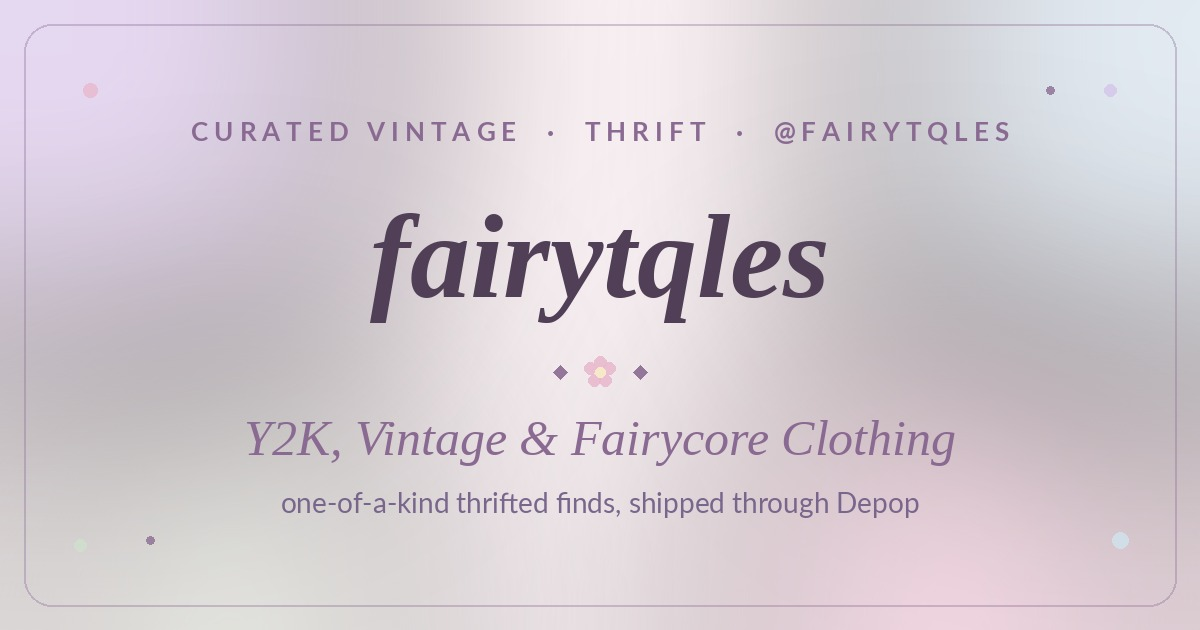
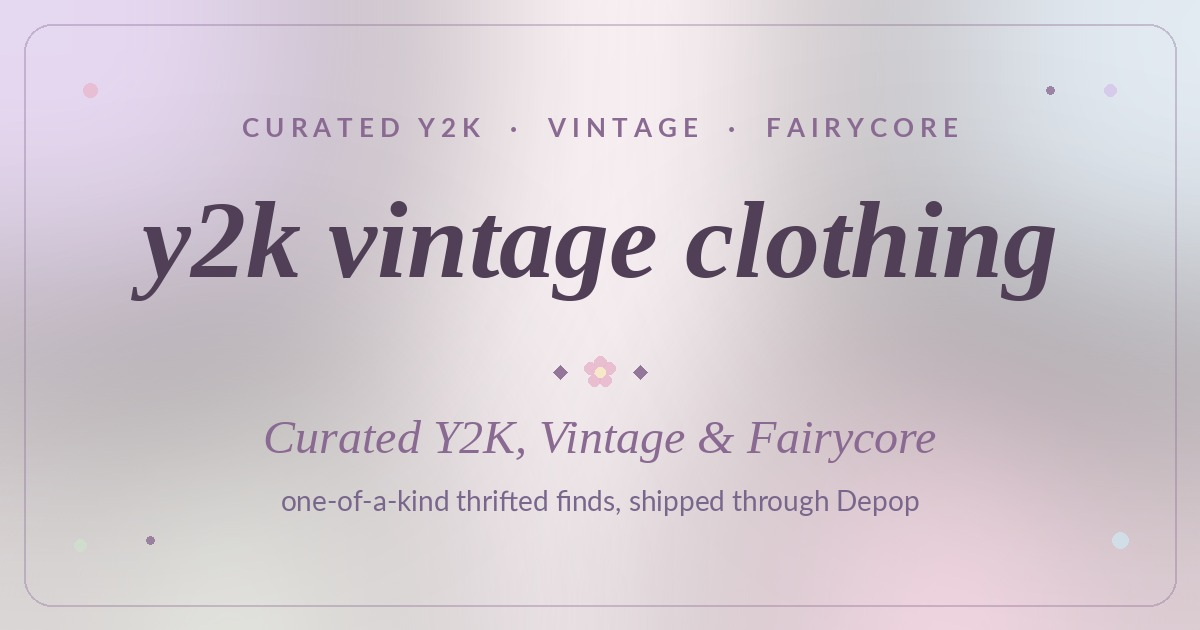
Add files via upload

diff --git a/index.html b/index.html
@@ -6,23 +6,23 @@
 <meta name="google-site-verification" content="HPBxC9Fs_5nMhaDtrxnxJggaZpxIydLMu5C33OSO2TQ" />
 
 <!-- Primary SEO -->
-<title>fairytqles — Y2K, Vintage &amp; Fairycore Clothing | Curated Thrift Shop</title>
-<meta name="description" content="Curated Y2K, vintage & fairycore clothing. One-of-a-kind thrifted pieces — hand-picked, honestly described, and shipped through Depop. Shop the collection.">
-<link rel="canonical" href="https://www.fairytqles-clothing.com/">
+<title>Y2K Vintage Clothing — Curated Y2K, Vintage &amp; Fairycore Thrift Shop</title>
+<meta name="description" content="Y2K Vintage Clothing — a curated shop of one-of-a-kind Y2K, vintage & fairycore pieces. Hand-picked, honestly described, and shipped through Depop. Shop the collection.">
+<link rel="canonical" href="https://www.y2kvintageclothing.com/">
 
 <!-- Open Graph (Facebook, Pinterest, iMessage previews) -->
 <meta property="og:type" content="website">
-<meta property="og:title" content="fairytqles — Curated Y2K &amp; Vintage Clothing">
+<meta property="og:title" content="Y2K Vintage Clothing — Curated Y2K &amp; Vintage">
 <meta property="og:description" content="One-of-a-kind Y2K, vintage & fairycore finds. Hand-picked thrift, shipped through Depop.">
-<meta property="og:url" content="https://www.fairytqles-clothing.com/">
-<meta property="og:image" content="https://www.fairytqles-clothing.com/preview.jpg">
-<meta property="og:site_name" content="fairytqles">
+<meta property="og:url" content="https://www.y2kvintageclothing.com/">
+<meta property="og:image" content="https://www.y2kvintageclothing.com/preview.jpg">
+<meta property="og:site_name" content="Y2K Vintage Clothing">
 
 <!-- Twitter/X card -->
 <meta name="twitter:card" content="summary_large_image">
-<meta name="twitter:title" content="fairytqles — Curated Y2K &amp; Vintage Clothing">
+<meta name="twitter:title" content="Y2K Vintage Clothing — Curated Y2K &amp; Vintage">
 <meta name="twitter:description" content="One-of-a-kind Y2K, vintage & fairycore finds. Hand-picked thrift, shipped through Depop.">
-<meta name="twitter:image" content="https://www.fairytqles-clothing.com/preview.jpg">
+<meta name="twitter:image" content="https://www.y2kvintageclothing.com/preview.jpg">
 <link rel="preconnect" href="https://fonts.googleapis.com">
 <link rel="preconnect" href="https://fonts.gstatic.com" crossorigin>
 <link href="https://fonts.googleapis.com/css2?family=Cormorant+Garamond:ital,wght@0,400;0,500;1,400;1,500&family=Quicksand:wght@400;500;600&display=swap" rel="stylesheet">
@@ -72,10 +72,11 @@
   nav .wordmark {
     font-family: 'Cormorant Garamond', Georgia, serif;
     font-style: italic;
-    font-size: 26px;
+    font-size: 24px;
     font-weight: 500;
     text-decoration: none;
     color: var(--deep);
+    white-space: nowrap;
   }
   nav .links { display: flex; gap: 24px; align-items: center; }
   nav .links a.plain {
@@ -365,7 +366,7 @@
 <body>
 
 <nav>
-  <a class="wordmark" href="#">fairytqles</a>
+  <a class="wordmark" href="#">y2k vintage clothing</a>
   <div class="links">
     <a class="plain" href="#collection">collection</a>
     <a class="plain" href="#about">about</a>
@@ -379,9 +380,9 @@
   <span class="float f2">🌷</span>
   <span class="float f3">✧</span>
   <span class="float f4">🍄</span>
-  <p class="eyebrow">curated vintage &amp; thrift · @fairytqles</p>
+  <p class="eyebrow">curated y2k &amp; vintage · @fairytqles</p>
   <h1>Once upon a time, <em>someone loved this</em>.</h1>
-  <p class="sub">Curated Y2K, vintage &amp; fairycore clothing — one-of-a-kind thrifted finds, hand-picked and photographed with care. Every piece listed &amp; shipped through Depop.</p>
+  <p class="sub">Y2K Vintage Clothing — curated Y2K, vintage &amp; fairycore pieces, one-of-a-kind and hand-picked with care. Every piece listed &amp; shipped through Depop.</p>
   <a class="btn cta" href="https://www.depop.com/fairytqles" target="_blank" rel="noopener">browse the shop ✿</a>
 </header>
 
@@ -492,8 +493,8 @@
     <h3>Slow fashion, <em>one treasure at a time</em>.</h3>
   </div>
   <div>
-    <p>fairytqles is a small curated vintage shop. Every piece is thrifted by hand, cleaned, measured, and photographed before it's listed — so what you see is exactly what arrives.</p>
-    <p>Because everything is secondhand, each item is one of one. If something speaks to you, it won't be restocked. All purchases, questions, and offers happen through Depop.</p>
+    <p>Y2K Vintage Clothing is a small curated shop for one-of-a-kind Y2K, vintage &amp; fairycore pieces. Every item is thrifted by hand, cleaned, measured, and photographed before it's listed — so what you see is exactly what arrives.</p>
+    <p>Because everything is secondhand, each piece is one of one. If something speaks to you, it won't be restocked. All purchases, questions, and offers happen through Depop, @fairytqles.</p>
   </div>
 </section>
 
@@ -519,7 +520,7 @@
   <h5>Find something <em>worth keeping</em>.</h5>
   <a class="btn cta" href="https://www.depop.com/fairytqles" target="_blank" rel="noopener">@fairytqles on depop ✿</a>
   <div class="fine">
-    <span>© 2026 fairytqles</span>
+    <span>© 2026 Y2K Vintage Clothing</span>
     <a href="https://www.depop.com/fairytqles" target="_blank" rel="noopener">depop.com/fairytqles</a>
   </div>
 </footer>
@@ -529,9 +530,9 @@
 {
   "@context": "https://schema.org",
   "@type": "Store",
-  "name": "fairytqles",
+  "name": "Y2K Vintage Clothing",
   "description": "Curated Y2K, vintage & fairycore clothing. One-of-a-kind thrifted pieces, shipped through Depop.",
-  "url": "https://www.fairytqles-clothing.com/",
+  "url": "https://www.y2kvintageclothing.com/",
   "sameAs": ["https://www.depop.com/fairytqles"]
 }
 </script>

diff --git a/journal.html b/journal.html
@@ -4,16 +4,16 @@
 <meta charset="UTF-8">
 <meta name="viewport" content="width=device-width, initial-scale=1.0">
 
-<title>the journal — Y2K styling & vintage tips | fairytqles</title>
-<meta name="description" content="Styling ideas, thrifting notes, and Y2K outfit inspiration from fairytqles — a curated vintage & fairycore shop. Read the journal.">
-<link rel="canonical" href="https://www.fairytqles-clothing.com/journal.html">
+<title>the journal — Y2K styling & vintage tips | Y2K Vintage Clothing</title>
+<meta name="description" content="Styling ideas, thrifting notes, and Y2K outfit inspiration from Y2K Vintage Clothing — a curated vintage & fairycore shop. Read the journal.">
+<link rel="canonical" href="https://www.y2kvintageclothing.com/journal.html">
 
 <meta property="og:type" content="website">
-<meta property="og:title" content="the journal — Y2K styling & vintage tips | fairytqles">
-<meta property="og:description" content="Styling ideas and Y2K outfit inspiration from fairytqles, a curated vintage & fairycore shop.">
-<meta property="og:url" content="https://www.fairytqles-clothing.com/journal.html">
-<meta property="og:image" content="https://www.fairytqles-clothing.com/preview.jpg">
-<meta property="og:site_name" content="fairytqles">
+<meta property="og:title" content="the journal — Y2K styling & vintage tips | Y2K Vintage Clothing">
+<meta property="og:description" content="Styling ideas and Y2K outfit inspiration from Y2K Vintage Clothing, a curated vintage & fairycore shop.">
+<meta property="og:url" content="https://www.y2kvintageclothing.com/journal.html">
+<meta property="og:image" content="https://www.y2kvintageclothing.com/preview.jpg">
+<meta property="og:site_name" content="Y2K Vintage Clothing">
 
 <link rel="preconnect" href="https://fonts.googleapis.com">
 <link rel="preconnect" href="https://fonts.gstatic.com" crossorigin>
@@ -45,7 +45,7 @@
   }
   nav .wordmark {
     font-family: 'Cormorant Garamond', Georgia, serif; font-style: italic;
-    font-size: 26px; font-weight: 500; text-decoration: none; color: var(--deep);
+    font-size: 24px; font-weight: 500; text-decoration: none; color: var(--deep); white-space: nowrap;
   }
   nav .links { display: flex; gap: 24px; align-items: center; }
   nav .links a.plain {
@@ -125,7 +125,7 @@
 <body>
 
 <nav>
-  <a class="wordmark" href="index.html">fairytqles</a>
+  <a class="wordmark" href="index.html">y2k vintage clothing</a>
   <div class="links">
     <a class="plain" href="index.html#collection">collection</a>
     <a class="plain" href="journal.html">journal</a>
@@ -158,7 +158,7 @@
   <h5>Find something <em>worth keeping</em>.</h5>
   <a class="btn cta" href="https://www.depop.com/fairytqles" target="_blank" rel="noopener">@fairytqles on depop ✿</a>
   <div class="fine">
-    <span>© 2026 fairytqles</span>
+    <span>© 2026 Y2K Vintage Clothing</span>
     <a href="https://www.depop.com/fairytqles" target="_blank" rel="noopener">depop.com/fairytqles</a>
   </div>
 </footer>

diff --git a/y2k-aesthetic-thrifted-guide.html b/y2k-aesthetic-thrifted-guide.html
@@ -4,16 +4,16 @@
 <meta charset="UTF-8">
 <meta name="viewport" content="width=device-width, initial-scale=1.0">
 
-<title>The Y2K Aesthetic, Explained: Building the Look from Thrifted Finds | fairytqles</title>
-<meta name="description" content="What makes an outfit Y2K, the key vintage pieces to thrift, and how to build the look so it feels like you. A styling guide from fairytqles.">
-<link rel="canonical" href="https://www.fairytqles-clothing.com/y2k-aesthetic-thrifted-guide.html">
+<title>The Y2K Aesthetic, Explained: Building the Look from Thrifted Finds | Y2K Vintage Clothing</title>
+<meta name="description" content="What makes an outfit Y2K, the key vintage pieces to thrift, and how to build the look so it feels like you. A styling guide from Y2K Vintage Clothing.">
+<link rel="canonical" href="https://www.y2kvintageclothing.com/y2k-aesthetic-thrifted-guide.html">
 
 <meta property="og:type" content="article">
 <meta property="og:title" content="The Y2K Aesthetic, Explained: Building the Look from Thrifted Finds">
 <meta property="og:description" content="What makes an outfit Y2K, the key pieces to thrift, and how to make the look feel like you.">
-<meta property="og:url" content="https://www.fairytqles-clothing.com/y2k-aesthetic-thrifted-guide.html">
-<meta property="og:image" content="https://www.fairytqles-clothing.com/preview.jpg">
-<meta property="og:site_name" content="fairytqles">
+<meta property="og:url" content="https://www.y2kvintageclothing.com/y2k-aesthetic-thrifted-guide.html">
+<meta property="og:image" content="https://www.y2kvintageclothing.com/preview.jpg">
+<meta property="og:site_name" content="Y2K Vintage Clothing">
 
 <link rel="preconnect" href="https://fonts.googleapis.com">
 <link rel="preconnect" href="https://fonts.gstatic.com" crossorigin>
@@ -45,7 +45,7 @@
   }
   nav .wordmark {
     font-family: 'Cormorant Garamond', Georgia, serif; font-style: italic;
-    font-size: 26px; font-weight: 500; text-decoration: none; color: var(--deep);
+    font-size: 24px; font-weight: 500; text-decoration: none; color: var(--deep); white-space: nowrap;
   }
   nav .links { display: flex; gap: 24px; align-items: center; }
   nav .links a.plain {
@@ -108,7 +108,7 @@
 <body>
 
 <nav>
-  <a class="wordmark" href="index.html">fairytqles</a>
+  <a class="wordmark" href="index.html">y2k vintage clothing</a>
   <div class="links">
     <a class="plain" href="index.html#collection">collection</a>
     <a class="plain" href="journal.html">journal</a>
@@ -120,7 +120,7 @@
   <div class="breadcrumb"><a href="journal.html">← the journal</a></div>
   <div class="kicker">Y2K styling</div>
   <h1>The Y2K Aesthetic, Explained: <em>Building the Look from Thrifted Finds</em></h1>
-  <div class="meta-line">A fairytqles styling guide · 7 min read</div>
+  <div class="meta-line">A Y2K Vintage Clothing styling guide · 7 min read</div>
 
   <p class="lead">"Y2K" gets used to describe everything from rhinestones to cargo pants, which makes it a slippery thing to actually shop for. So here's the honest version: what the aesthetic really is, the vintage pieces worth hunting for secondhand, and how to build the look so it feels like you and not a themed party.</p>
 
@@ -150,7 +150,7 @@
   <h5>Find something <em>worth keeping</em>.</h5>
   <a class="btn cta" href="https://www.depop.com/fairytqles" target="_blank" rel="noopener">@fairytqles on depop ✿</a>
   <div class="fine">
-    <span>© 2026 fairytqles</span>
+    <span>© 2026 Y2K Vintage Clothing</span>
     <a href="journal.html">back to the journal</a>
   </div>
 </footer>

diff --git a/y2k-rhinestone-baby-tee-outfits.html b/y2k-rhinestone-baby-tee-outfits.html
@@ -4,16 +4,16 @@
 <meta charset="UTF-8">
 <meta name="viewport" content="width=device-width, initial-scale=1.0">
 
-<title>How to Style a Y2K Rhinestone Baby Tee: 5 Outfit Ideas | fairytqles</title>
-<meta name="description" content="Five ways to style a Y2K rhinestone baby tee — from low-rise denim to fairycore layering. A vintage styling guide from fairytqles, a curated thrift shop.">
-<link rel="canonical" href="https://www.fairytqles-clothing.com/y2k-rhinestone-baby-tee-outfits.html">
+<title>How to Style a Y2K Rhinestone Baby Tee: 5 Outfit Ideas | Y2K Vintage Clothing</title>
+<meta name="description" content="Five ways to style a Y2K rhinestone baby tee — from low-rise denim to fairycore layering. A vintage styling guide from Y2K Vintage Clothing.">
+<link rel="canonical" href="https://www.y2kvintageclothing.com/y2k-rhinestone-baby-tee-outfits.html">
 
 <meta property="og:type" content="article">
 <meta property="og:title" content="How to Style a Y2K Rhinestone Baby Tee: 5 Outfit Ideas">
 <meta property="og:description" content="Five ways to style a Y2K rhinestone baby tee, from low-rise denim to fairycore layering.">
-<meta property="og:url" content="https://www.fairytqles-clothing.com/y2k-rhinestone-baby-tee-outfits.html">
-<meta property="og:image" content="https://www.fairytqles-clothing.com/preview.jpg">
-<meta property="og:site_name" content="fairytqles">
+<meta property="og:url" content="https://www.y2kvintageclothing.com/y2k-rhinestone-baby-tee-outfits.html">
+<meta property="og:image" content="https://www.y2kvintageclothing.com/preview.jpg">
+<meta property="og:site_name" content="Y2K Vintage Clothing">
 
 <link rel="preconnect" href="https://fonts.googleapis.com">
 <link rel="preconnect" href="https://fonts.gstatic.com" crossorigin>
@@ -45,7 +45,7 @@
   }
   nav .wordmark {
     font-family: 'Cormorant Garamond', Georgia, serif; font-style: italic;
-    font-size: 26px; font-weight: 500; text-decoration: none; color: var(--deep);
+    font-size: 24px; font-weight: 500; text-decoration: none; color: var(--deep); white-space: nowrap;
   }
   nav .links { display: flex; gap: 24px; align-items: center; }
   nav .links a.plain {
@@ -108,7 +108,7 @@
 <body>
 
 <nav>
-  <a class="wordmark" href="index.html">fairytqles</a>
+  <a class="wordmark" href="index.html">y2k vintage clothing</a>
   <div class="links">
     <a class="plain" href="index.html#collection">collection</a>
     <a class="plain" href="journal.html">journal</a>
@@ -120,7 +120,7 @@
   <div class="breadcrumb"><a href="journal.html">← the journal</a></div>
   <div class="kicker">Y2K styling</div>
   <h1>How to Style a Y2K Rhinestone Baby Tee: <em>5 Outfit Ideas</em></h1>
-  <div class="meta-line">A fairytqles styling guide · 6 min read</div>
+  <div class="meta-line">A Y2K Vintage Clothing styling guide · 6 min read</div>
 
   <p class="lead">The rhinestone baby tee is the little black dress of the Y2K wardrobe — small, sparkly, and secretly capable of anchoring almost any outfit. If you've just thrifted one (or you're eyeing one and wondering whether it'll actually earn its keep), here are five ways to wear it that carry it well beyond the year 2000.</p>
 
@@ -152,7 +152,7 @@
   <h5>Find something <em>worth keeping</em>.</h5>
   <a class="btn cta" href="https://www.depop.com/fairytqles" target="_blank" rel="noopener">@fairytqles on depop ✿</a>
   <div class="fine">
-    <span>© 2026 fairytqles</span>
+    <span>© 2026 Y2K Vintage Clothing</span>
     <a href="journal.html">back to the journal</a>
   </div>
 </footer>